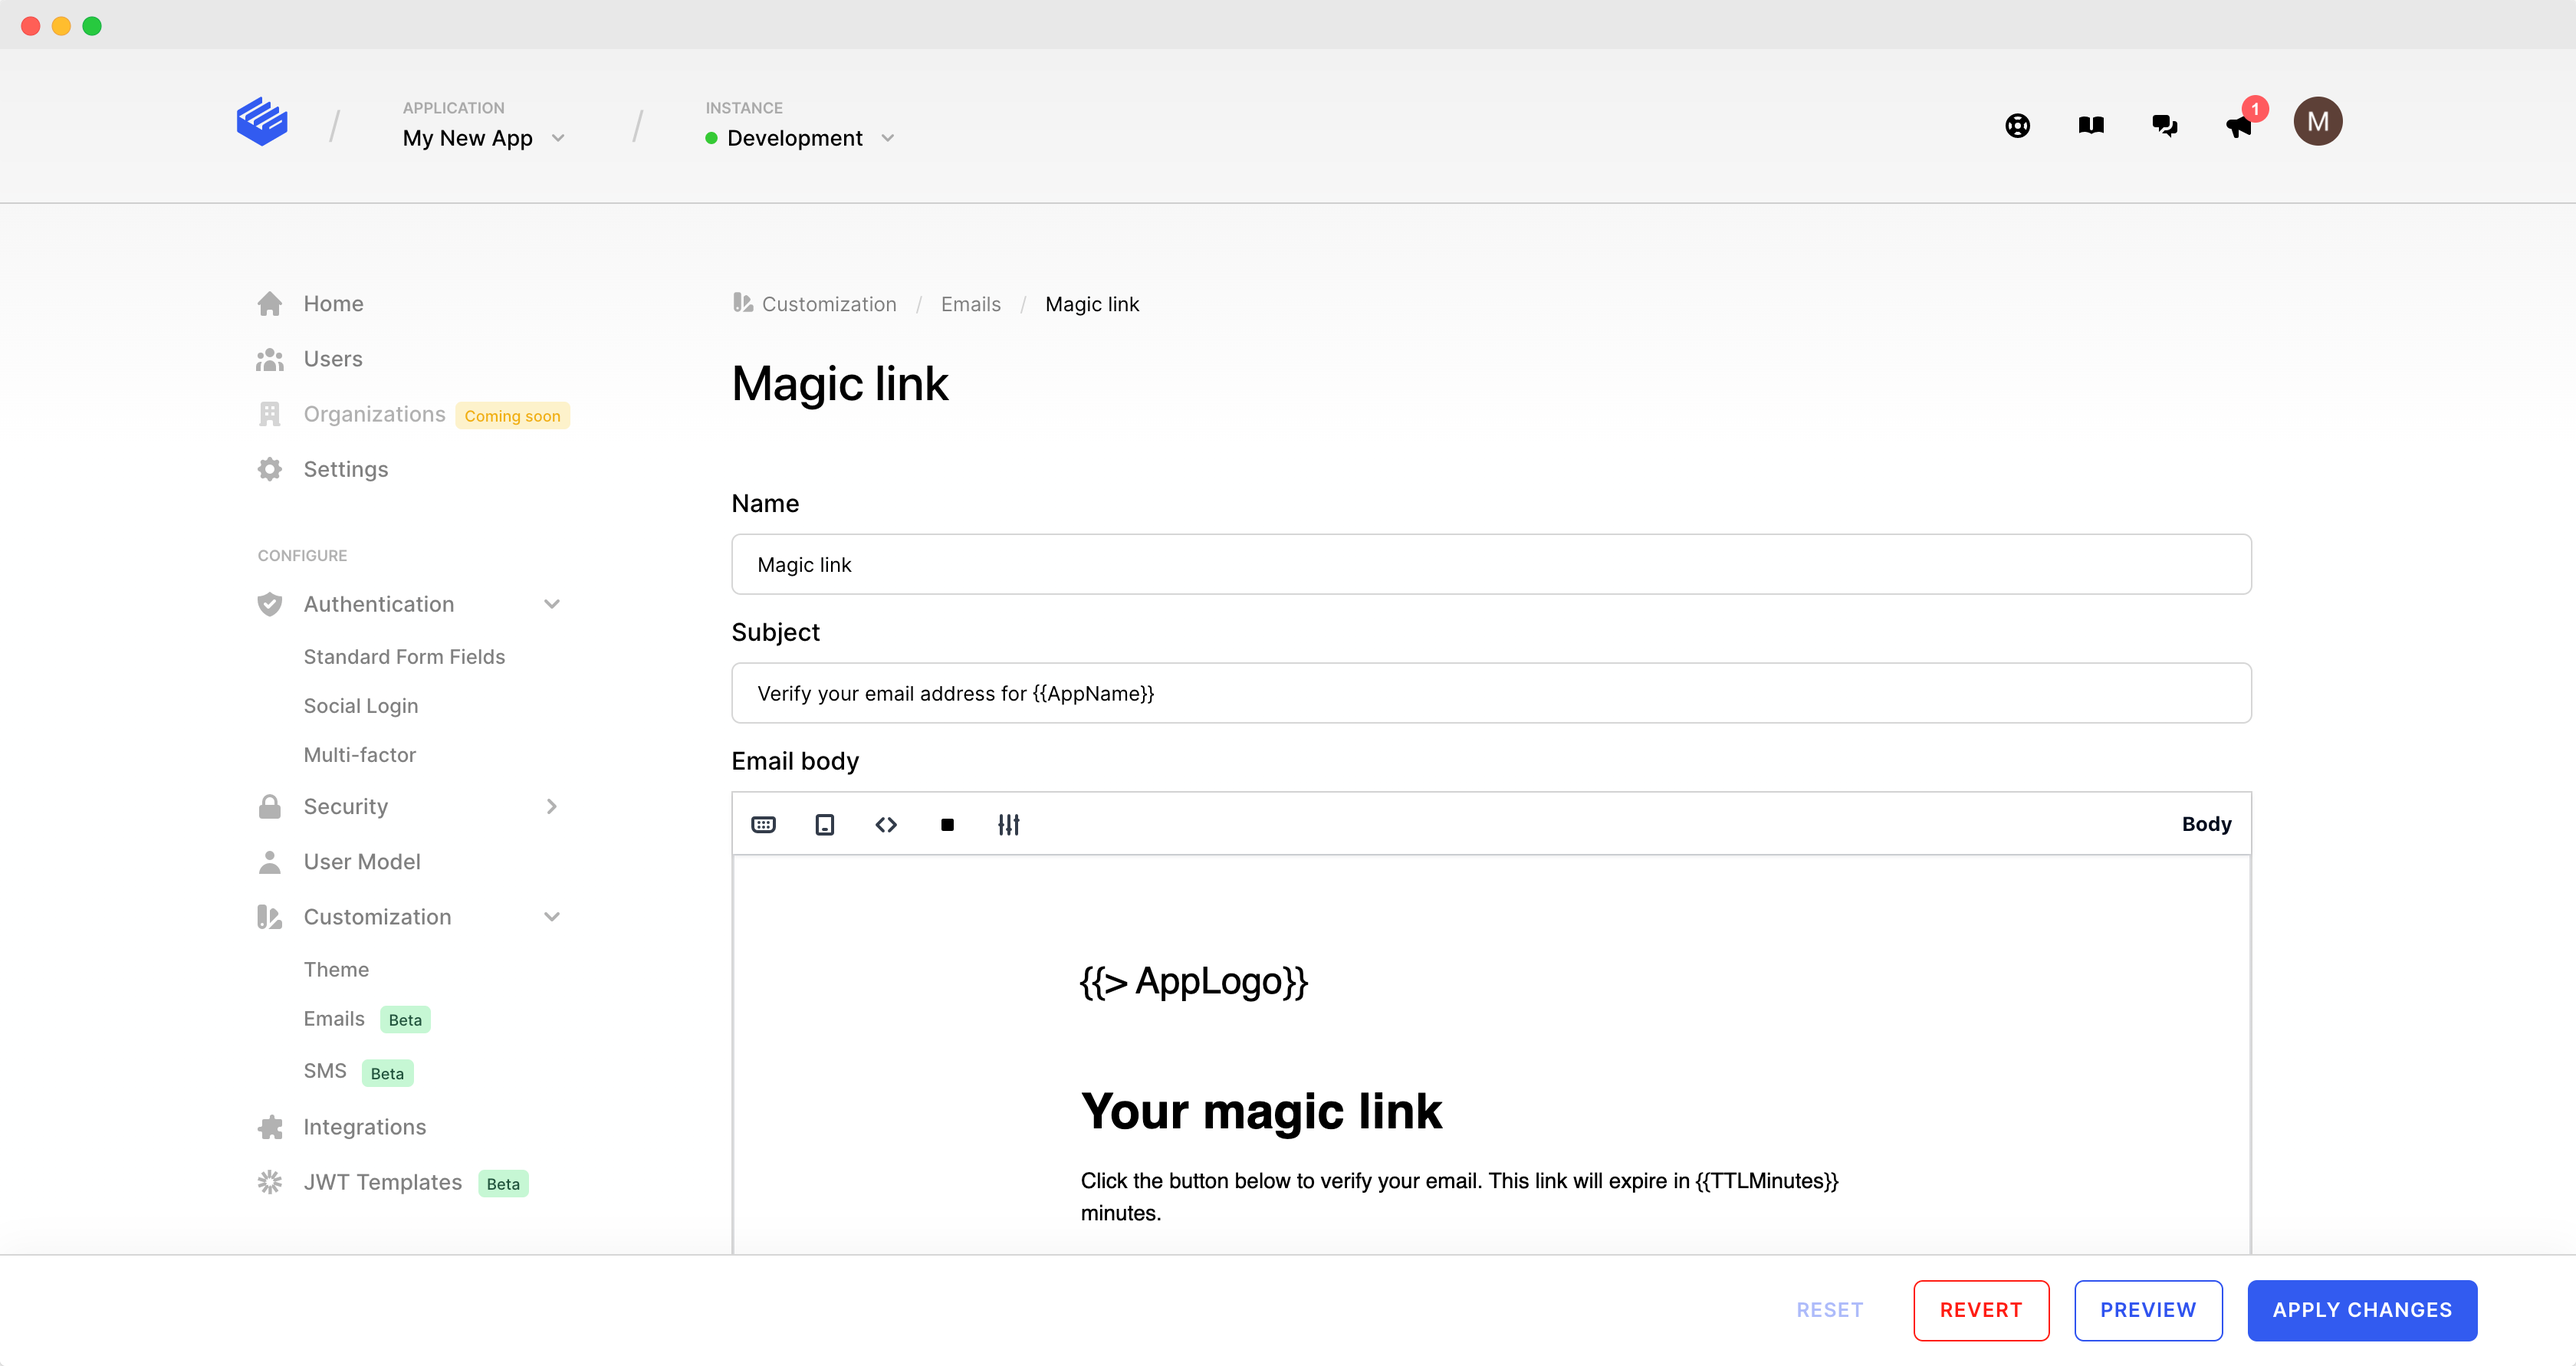
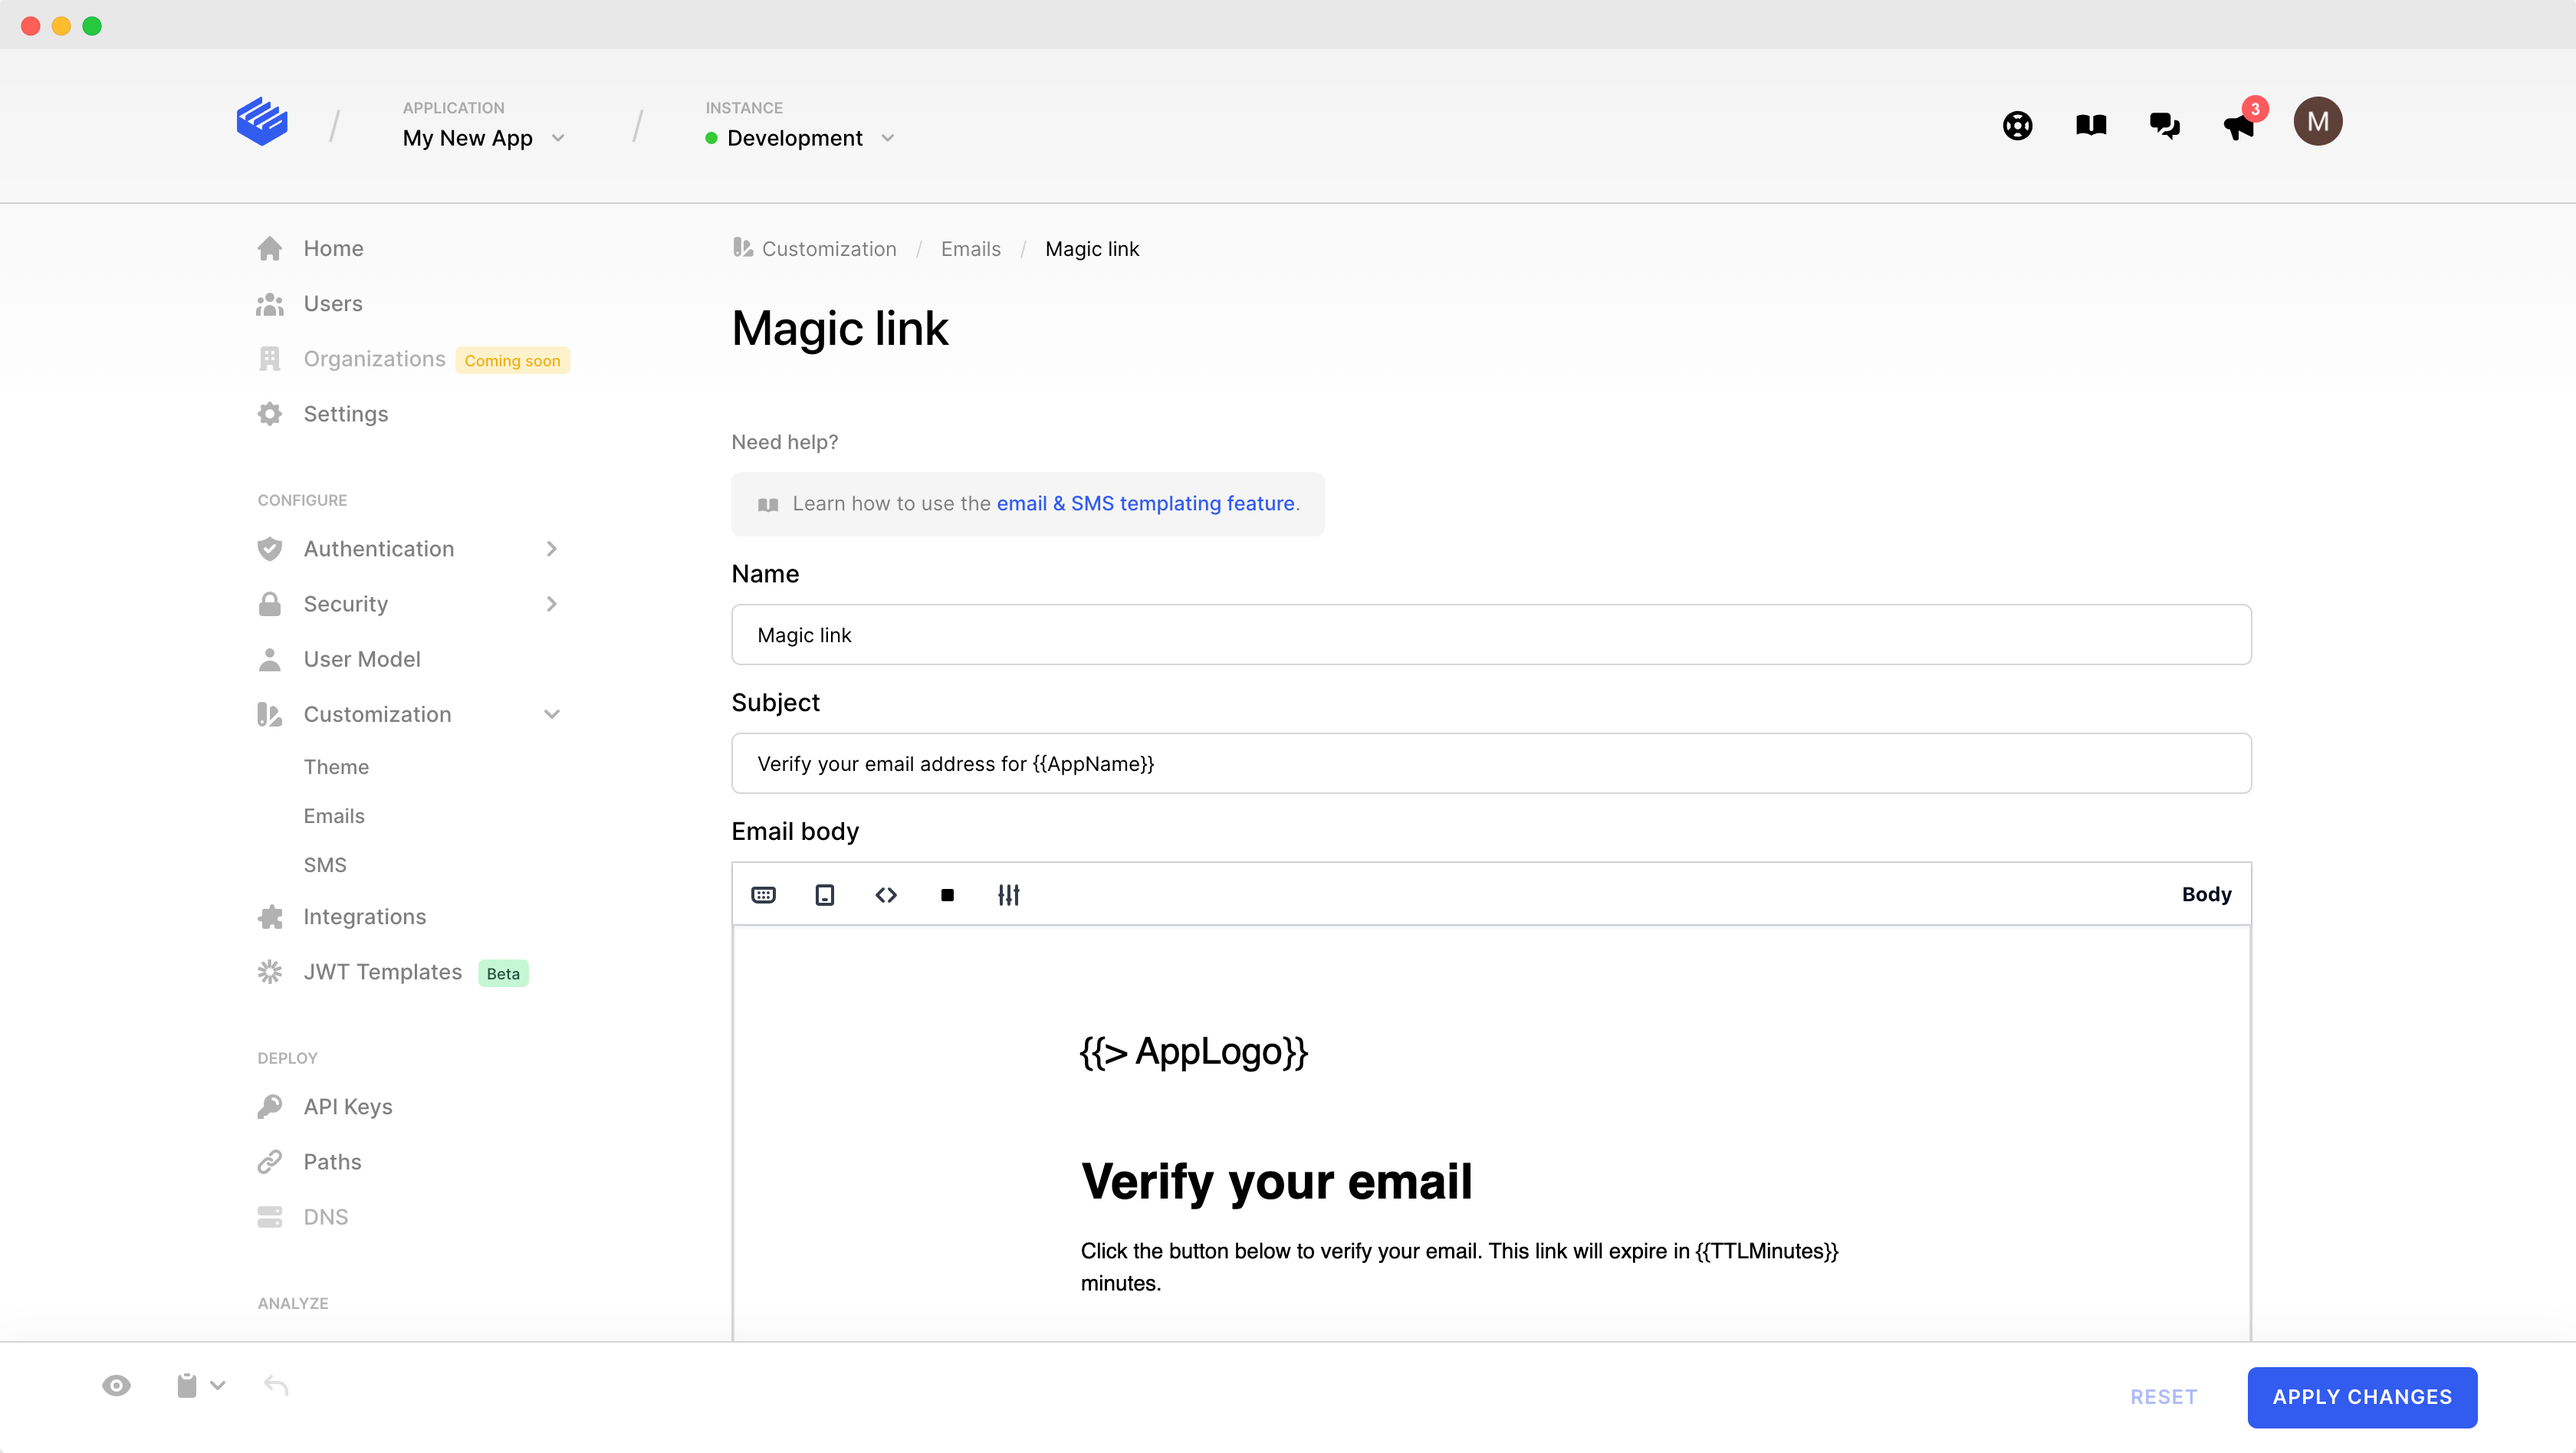
GitBook: [#177] Renewed screenshots to illustrate new CTA layout

diff --git a/reference/email-and-sms-templates.md b/reference/email-and-sms-templates.md
@@ -10,7 +10,7 @@ Clerk offers the capability to override the default system email & SMS messages 
 
 The template editor enables you to change the wording and styling so that it is more consistent with your own branding.
 
-It is also a useful way to translate the content to another target language in the case that English is not your application default locale.
+It is also a useful way to translate the content to another target language in the case that English is not the default locale of your application.
 
 ### Terminology
 
@@ -33,8 +33,8 @@ In this section you can see which templates can be modified at the time of writi
 The following email templates are available for editing:
 
 * Invitation (slug: `invitation`) - email sent to a person invited to join your application
-* Magic link (slug: `magic_link`) - email containing magic link to allow the user to sign in without providing a password
-* Verification code (slug: `verification_code`) - email containing OTP (One Time Password) code for verifying account access
+* Magic link (slug: `magic_link`) - email containing magic link to allow the user to sign in without providing a password, or verify the ownership of an email address
+* Verification code (slug: `verification_code`) - email containing an OTP (One Time Password) code for verifying account access
 
 ![Email template list](../.gitbook/assets/email\_template\_list.png)
 
@@ -43,15 +43,21 @@ The following email templates are available for editing:
 The following SMS templates are available for editing:
 
 * Invitation (slug: `invitation`) - SMS sent to person invited to join your application
-* Verification code (slug: `verification_code`) - SMS containing OTP code for verifying account access
+* Verification code (slug: `verification_code`) - SMS containing an OTP code for verifying account access
 
 ![SMS template list](../.gitbook/assets/sms\_template\_list.png)
 
 ## Before you start
 
-The email editor uses the [Revolvapp](https://imperavi.com/revolvapp) email template editor plugin by Imperavi. To acquaint yourself with the template markup syntax, please consult the corresponding [documentation page](https://imperavi.com/revolvapp/docs/syntax/quick-start). As you will see, the template markup is an HTML-like language and each type of node supports its own set of attributes which control its behavior. A lot of the attributes are borrowed from HTML itself.
+### Revolvapp WYSIWYG email editor plugin
+
+The email editor uses the [Revolvapp](https://imperavi.com/revolvapp) email template editor plugin by Imperavi. To acquaint yourself with the template markup syntax, please consult the corresponding [documentation page](https://imperavi.com/revolvapp/docs/syntax/quick-start).
+
+As you will see, the template markup is an HTML-like language and each type of node supports its own set of attributes which control its behavior. A lot of the attributes are borrowed from HTML itself.
 
 Revolvapp allows the user to design the template using blocks and under the hood transpiles its markup to table-based HTML so that the resulting email renders consistently across email clients.
+
+### Handlebars templating language
 
 Both the email and SMS editor use the [Handlebars](https://handlebarsjs.com) templating language for the interpolation of dynamic values into your content via variables. It is a well established language, especially popular in the Javascript ecosystem, which has been adopted by leading Email Service Providers (ESPs) for templating as well.
 
@@ -87,23 +93,23 @@ Templates are editable:
 
 This allows you freely test the templating feature on your development environment so as to see if it fits your individual use case, before deciding on a plan upgrade.
 
-![Email template editor UI](../.gitbook/assets/email\_template\_editor.png)
+![Email template editor](../.gitbook/assets/email\_template\_editor.png)
 
-![SMS template editor UI](../.gitbook/assets/sms\_template\_editor.png)
+![SMS template editor](<../.gitbook/assets/sms\_template\_editor (1).png>)
 
 ### Preview
 
 The Preview operation enables you to get an idea of how the template will render when sent to the the recipient. This is useful for sampling your changes without actually having to commit them first.
 
-To trigger a preview, you can click on the **Preview** button at the bottom right of the screen.
+To trigger a preview, you can click on the **Preview Icon** at the bottom left of the screen (see screenshot below).
 
 In email templates, the `AppLogo` and `Copyright` sections will be replaced with their actual markup in this view. For both emails & SMS, the template variables will be replaced with sample values.
 
-Previewing is available on instances where templates are editable, based on your subscription plan.
+Previewing is available for all templates.
 
-![Email template preview](../.gitbook/assets/email\_template\_preview.png)
+![Email template preview](../.gitbook/assets/email\_preview.png)
 
-![SMS template preview](../.gitbook/assets/sms\_template\_preview.png)
+![SMS template preview](../.gitbook/assets/sms\_preview.png)
 
 ### Reset
 
@@ -115,23 +121,27 @@ Template reset is applicable to editable templates.
 
 ### Revert
 
-Even if you override a Clerk-provided template with your own customizations, you can always roll back to the system default template version by clicking on the **Revert** button.
+Even if you override a Clerk-provided template with your own customizations, you can always roll back to the system default template version by clicking on the **Revert Icon** (see screenshot below).
 
 This can be useful if you want to start over from scratch.
 
 Note: your current changes will be lost so please make sure you indeed wish to discard them prior to reverting. You will be asked to confirm your choice to prevent an unintentional action.
 
-![Revert prompt](../.gitbook/assets/revert\_prompt.png)
+![Revert to default template](../.gitbook/assets/revert\_email.png)
 
 ### Copy to another instance of the same application
 
-If your application has more than one instance then you will also have the option of copying the current state of the editor to another instance.
+If your application has more than one instance, then you will also have the option of copying the current state of the editor to another instance.
 
 This is especially useful for promoting changes from your **development** or **staging** environment to **production**, after you have tested them.
 
-To copy to another instance you will need to first click on the **Copy to** button and then from the sub-menu select the target instance you.
+To copy to another instance you will need to first click on the **Copy to** icon (see screenshot below) and then from the sub-menu select the target instance.
 
 Since this change will override the current state of the template on the target instance, you will be  asked to confirm your choice.
+
+Note that the copy icon will not appear if there are no other instances available on your application.
+
+![Copy to another instance dropdown](<../.gitbook/assets/image (8).png>)
 
 ![Copy prompt](../.gitbook/assets/copy\_prompt.png)
 
@@ -144,7 +154,7 @@ The email WYSIWYG editor is split into two parts:
 
 Since the toolbar exposes quite a few tools, we will examine them in more detail in the following sub-sections.
 
-![](../.gitbook/assets/email\_toolbar\_textarea.png)
+![Email editor toolbar & text area](../.gitbook/assets/email\_editor.png)
 
 ### Toolbar controls
 
@@ -165,7 +175,7 @@ Shows how the email will render on a mobile device with a portrait aspect ratio.
 
 Click on the mobile view toggle again to return to desktop view.
 
-![The email editor in mobile view mode](../.gitbook/assets/mobile\_view.png)
+![The email editor in mobile view mode](<../.gitbook/assets/mobile\_view (1).png>)
 
 #### HTML mode toggle
 
@@ -175,7 +185,7 @@ For this tool to appear you will need to unselect any currently selected block.
 
 To exit HTML / source mode, click on the toggle again.
 
-![The email editor in HTML view mode](../.gitbook/assets/html\_view.png)
+![The email editor in html view mode](../.gitbook/assets/html\_view.png)
 
 #### Background button
 
@@ -241,7 +251,7 @@ Note: currently only providing a link to image is supported.
 
 It is possible to configure the image width and Alt Tex, as well as turn it into a link.
 
-![Image options - note that further configuration is available through the settings](<../.gitbook/assets/image (8).png>)
+![Image options - note that further configuration is available through the settings](<../.gitbook/assets/image (8) (1).png>)
 
 ### How to make buttons & links inherit your theme colors
 
@@ -259,7 +269,7 @@ Since you may not want all buttons or links to have this behavior, you will need
 
 These classes can be added as attributes to the Revolvapp template markup after toggling the editor to HTML (i.e. source) mode.
 
-![cl-branded-button class being used to mark that a button inherits your theme colors](../.gitbook/assets/branded\_classes.png)
+![cl-branded-button class being used to mark that a button inherits your theme colors](../.gitbook/assets/cl-branded-button.png)
 
 ### Text area controls
 
@@ -283,4 +293,4 @@ When you are satisfied with your edits you can persist them by clicking on the *
 
 To insert a variable at the current cursor position, you can click on the corresponding variable badge in the variable widget that is located adjacent to the text area.
 
-![SMS template editor - variable widget](../.gitbook/assets/sms\_variable\_widget.png)
+![SMS template editor - variable widget](../.gitbook/assets/variable\_widget.png)
